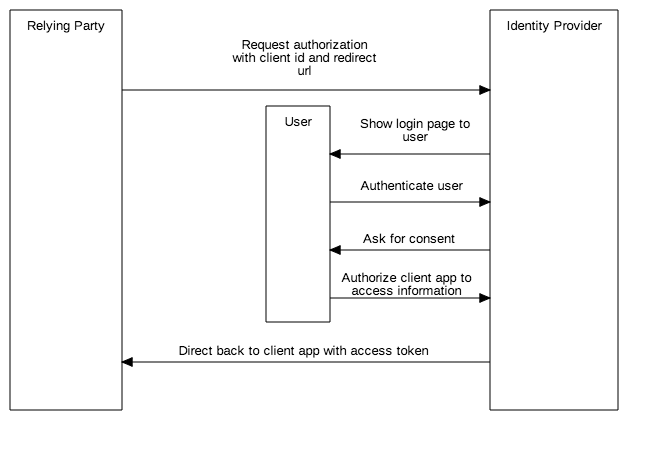
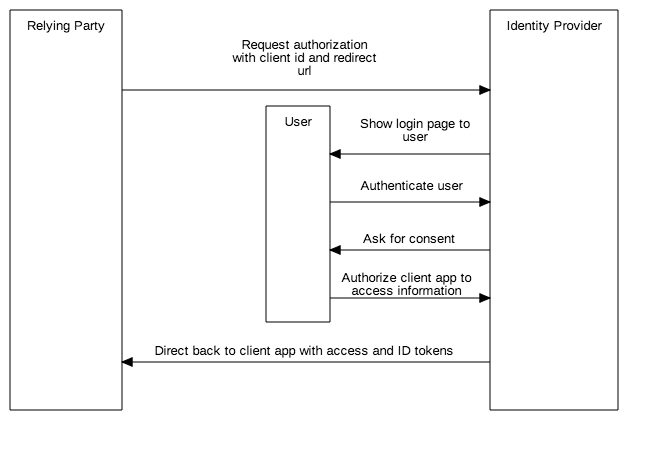
GE-908: More documentation

Changed region(s): [[0.2432, 0.7467, 0.6991, 0.8089]]

diff --git a/docs/oidc/oidc.html b/docs/oidc/oidc.html
@@ -32,6 +32,7 @@
             
   <div class="section" id="openid-connect">
 <h1>1. OpenID Connect<a class="headerlink" href="#openid-connect" title="Permalink to this headline">¶</a></h1>
+<p>A brief look at OpenID Connect. For more information, see the source list.</p>
 <div class="section" id="what-is-openid-connect">
 <h2>1.1. What is OpenID Connect?<a class="headerlink" href="#what-is-openid-connect" title="Permalink to this headline">¶</a></h2>
 <p>OpenID Connect (OIDC) is a simple mechanism based on the OAuth 2.0
@@ -54,32 +55,79 @@ prevents someone from stealing the <em>client_id</em> and using it to have infor
 </ol>
 <div class="figure align-center" id="id1">
 <img alt="../_images/first_time_authentication.png" src="../_images/first_time_authentication.png" />
-<p class="caption"><span class="caption-text">OIDC web-based flow (TODO: FIX DIAGRAM)</span></p>
+<p class="caption"><span class="caption-text">OIDC web-based flow.</span></p>
 </div>
 </div>
 <div class="section" id="access-tokens">
 <h2>1.3. Access Tokens<a class="headerlink" href="#access-tokens" title="Permalink to this headline">¶</a></h2>
-<p>TODO</p>
+<p>Access Tokens are used to communicate to the API that the bearer of the
+token have been authorized to access the API and perform actions that
+are permitted by the custom scope of the API (Auth0, 2018).</p>
 </div>
 <div class="section" id="id-tokens">
 <h2>1.4. ID Tokens<a class="headerlink" href="#id-tokens" title="Permalink to this headline">¶</a></h2>
-<p>TODO</p>
+<p>An ID token contains identity data such as the user’s name and email. The data is consumed
+by the client application and is typically used for UI display. These tokens conform to the RFC 7519
+standard for JSON Web Tokens and must contain 3 parts: a header, a body and a signature (Auth0, 2018).</p>
+</div>
+<div class="section" id="json-web-token-jwt">
+<h2>1.5. JSON Web Token (JWT)<a class="headerlink" href="#json-web-token-jwt" title="Permalink to this headline">¶</a></h2>
+<p>JSON Web Tokens allows for secure transmission of information between parties as a JSON object. The
+information is digitally signed, using either a secret or a public/private key pair. Therefor
+the information can be trusted and verified (Jwt.io, 2018).</p>
+<p><strong>An encoded JWT:</strong> - in the form <em>x.y.z</em></p>
+<div class="highlight-python notranslate"><div class="highlight"><pre><span></span><span class="n">eyJhbGciOiJIUzI1NiIsInR5cCI6IkpXVCJ9</span><span class="o">.</span><span class="n">eyJzdWIiOiIxMjM0NTY3ODkwIiwibm</span>
+<span class="n">FtZSI6IkpvaG4gRG9lIiwiaWF0IjoxNTE2MjM5MDIyfQ</span><span class="o">.</span><span class="n">XbPfbIHMI6arZ3Y922BhjWg</span>
+<span class="n">QzWXcXNrz0ogtVhfEd2o</span>
+</pre></div>
+</div>
+<p>can be decoded into three parts:</p>
+<p><strong>Header (x)</strong> - Algorithm &amp; Token Type</p>
+<div class="highlight-JSON notranslate"><div class="highlight"><pre><span></span><span class="p">{</span>
+    <span class="nt">&quot;alg&quot;</span><span class="p">:</span> <span class="s2">&quot;HS256&quot;</span><span class="p">,</span>
+    <span class="nt">&quot;typ&quot;</span><span class="p">:</span> <span class="s2">&quot;JWT&quot;</span>
+<span class="p">}</span>
+</pre></div>
+</div>
+<p><strong>Body (y)</strong> - Data</p>
+<div class="highlight-JSON notranslate"><div class="highlight"><pre><span></span><span class="p">{</span>
+    <span class="nt">&quot;sub&quot;</span><span class="p">:</span> <span class="s2">&quot;1234567890&quot;</span><span class="p">,</span>
+    <span class="nt">&quot;name&quot;</span><span class="p">:</span> <span class="s2">&quot;John Doe&quot;</span><span class="p">,</span>
+    <span class="nt">&quot;iat&quot;</span><span class="p">:</span> <span class="mi">1516239022</span>
+<span class="p">}</span>
+</pre></div>
+</div>
+<p><strong>Signature (z)</strong> - Gets verified by doing</p>
+<div class="highlight-python notranslate"><div class="highlight"><pre><span></span><span class="n">HMACSHA256</span><span class="p">(</span>
+    <span class="n">base64UrlEncode</span><span class="p">(</span><span class="n">header</span><span class="p">)</span> <span class="o">+</span> <span class="s2">&quot;.&quot;</span> <span class="o">+</span>
+    <span class="n">base64UrlEncode</span><span class="p">(</span><span class="n">payload</span><span class="p">),</span>
+    <span class="n">secret</span>
+<span class="p">)</span>
+</pre></div>
+</div>
 </div>
 <div class="section" id="oidc-in-girl-effect">
-<h2>1.5. OIDC in Girl Effect<a class="headerlink" href="#oidc-in-girl-effect" title="Permalink to this headline">¶</a></h2>
-<p>TODO: Add examples of the following:</p>
-<ul class="simple">
-<li>Django OIDC Provider</li>
-<li>Mozilla OIDC examples</li>
-<li>Wagtail implementation</li>
-</ul>
+<h2>1.6. OIDC in Girl Effect<a class="headerlink" href="#oidc-in-girl-effect" title="Permalink to this headline">¶</a></h2>
+<p><strong>Django OIDC Provider:</strong></p>
+<blockquote>
+<div>The Girl Effect Authentication Service uses the Django OIDC Provider library to perform all OIDC related tasks and makes use
+of the Django OIDC Provider models to create clients, etc. The Django OIDC Provider can be found here: <a class="reference external" href="https://github.com/juanifioren/django-oidc-provider">https://github.com/juanifioren/django-oidc-provider</a></div></blockquote>
+<p><strong>Mozilla Django OIDC:</strong></p>
+<blockquote>
+<div>Mozilla Django OIDC is used by other Django apps to integrate with the OIDC enabled Authentication Service on Girl Effect. Other
+libraries can/should be used for other types of apps. Mozilla Django OIDC can be found here: <a class="reference external" href="https://github.com/mozilla/mozilla-django-oidc">https://github.com/mozilla/mozilla-django-oidc</a></div></blockquote>
+<p><strong>Wagtail implementation:</strong></p>
+<blockquote>
+<div>An example of a wagtail app using OIDC and the Girl Effect Authentication service can be found here:
+<a class="reference external" href="https://github.com/girleffect/core-integration-demo/tree/develop/girleffect_oidc_integration">https://github.com/girleffect/core-integration-demo/tree/develop/girleffect_oidc_integration</a></div></blockquote>
 </div>
 <div class="section" id="sources">
-<h2>1.6. Sources<a class="headerlink" href="#sources" title="Permalink to this headline">¶</a></h2>
+<h2>1.7. Sources<a class="headerlink" href="#sources" title="Permalink to this headline">¶</a></h2>
 <p>Auth0. (2018). OpenID Connect. [online] Available at: <a class="reference external" href="https://auth0.com/docs/protocols/oidc">https://auth0.com/docs/protocols/oidc</a> [Accessed 22 Mar. 2018].</p>
 <p>Offenhartz, J. (2017). OpenID Connect explained in plain English.
 [Blog] Available at: <a class="reference external" href="https://www.onelogin.com/blog/openid-connect-explained-in-plain-english">https://www.onelogin.com/blog/openid-connect-explained-in-plain-english</a> [Accessed 22 Mar. 2018].</p>
 <p>Connect2id.com. (2018). OpenID Connect explained | Connect2id. [online] Available at: <a class="reference external" href="https://connect2id.com/learn/openid-connect">https://connect2id.com/learn/openid-connect</a> [Accessed 23 Mar. 2018].</p>
+<p>Jwt.io. (2018). JWT.IO - JSON Web Tokens Introduction. [online] Available at: <a class="reference external" href="https://jwt.io/introduction/">https://jwt.io/introduction/</a> [Accessed 26 Mar. 2018].</p>
 </div>
 </div>
 

diff --git a/docs/searchindex.js b/docs/searchindex.js
@@ -1,1 +1,1 @@
-Search.setIndex({docnames:["index","oidc/oidc"],envversion:53,filenames:["index.rst","oidc/oidc.rst"],objects:{},objnames:{},objtypes:{},terms:{The:1,access:0,add:1,allow:1,app:1,applic:1,ask:1,auth0:1,authent:1,author:1,avail:1,back:1,base:1,blog:1,can:1,client:1,client_id:1,client_secret:1,com:1,connect2id:1,connect:0,consent:1,contact:1,content:0,correct:1,credenti:1,detail:1,diagram:1,django:1,doc:1,doe:0,end:1,english:1,ensur:1,exampl:1,explain:1,facebook:1,fix:1,flow:1,follow:1,from:1,googl:1,has:1,have:1,how:0,http:1,ident:1,implement:1,index:0,inform:1,invok:1,learn:1,login:1,lot:1,mar:1,mechan:1,modul:0,mozilla:1,oauth:1,obtain:1,offenhartz:1,oidc:0,onc:1,onelogin:1,onlin:1,openid:0,order:1,own:1,page:0,parti:1,plain:1,prevent:1,protocol:1,provid:1,redirect_uri:1,reli:1,request:1,same:1,screen:1,search:0,send:1,sent:1,server:1,servic:1,session:1,simpl:1,someon:1,sourc:0,specif:1,steal:1,store:1,thi:1,through:1,todo:1,token:0,uri:1,use:1,user:1,using:1,verifi:1,wagtail:1,web:1,what:0,work:0,www:1},titles:["Welcome to Girl Effect: Core General\u2019s documentation!","1. OpenID Connect"],titleterms:{access:1,connect:1,core:0,document:0,doe:1,effect:[0,1],gener:0,girl:[0,1],how:1,indic:0,oidc:1,openid:1,sourc:1,tabl:0,token:1,welcom:0,what:1,work:1}})
+Search.setIndex({docnames:["index","oidc/oidc"],envversion:53,filenames:["index.rst","oidc/oidc.rst"],objects:{},objnames:{},objtypes:{},terms:{"public":1,For:1,The:1,These:1,access:0,action:1,alg:1,algorithm:1,all:1,allow:1,api:1,app:1,applic:1,ask:1,auth0:1,authent:1,author:1,avail:1,back:1,base64urlencod:1,base:1,bearer:1,been:1,between:1,blog:1,bodi:1,brief:1,can:1,client:1,client_id:1,client_secret:1,com:1,commun:1,conform:1,connect2id:1,connect:0,consent:1,consum:1,contact:1,contain:1,content:0,core:1,correct:1,creat:1,credenti:1,custom:1,data:1,decod:1,demo:1,detail:1,develop:1,digit:1,displai:1,django:1,doc:1,doe:0,doing:1,either:1,email:1,enabl:1,encod:1,end:1,english:1,ensur:1,etc:1,exampl:1,explain:1,eyjhbgcioijiuzi1niisinr5cci6ikpxvcj9:1,eyjzdwiioiixmjm0nty3odkwiiwibm:1,facebook:1,flow:1,form:1,found:1,from:1,ftzsi6ikpvag4grg9liiwiawf0ijoxnte2mjm5mdiyfq:1,get:1,girleffect:1,girleffect_oidc_integr:1,github:1,googl:1,has:1,have:1,header:1,here:1,hmacsha256:1,how:0,hs256:1,http:1,iat:1,ident:1,implement:1,index:0,inform:1,integr:1,introduct:1,invok:1,john:1,json:0,juanifioren:1,jwt:0,kei:1,learn:1,librari:1,list:1,login:1,look:1,lot:1,make:1,mar:1,mechan:1,model:1,modul:0,more:1,mozilla:1,must:1,name:1,oauth:1,object:1,obtain:1,offenhartz:1,oidc:0,onc:1,onelogin:1,onlin:1,openid:0,order:1,other:1,own:1,page:0,pair:1,part:1,parti:1,payload:1,perform:1,permit:1,plain:1,prevent:1,privat:1,protocol:1,provid:1,qzwxcxnrz0ogtvhfed2o:1,redirect_uri:1,relat:1,reli:1,request:1,rfc:1,same:1,scope:1,screen:1,search:0,secret:1,secur:1,see:1,send:1,sent:1,server:1,servic:1,session:1,should:1,sign:1,signatur:1,simpl:1,someon:1,sourc:0,specif:1,standard:1,steal:1,store:1,sub:1,task:1,therefor:1,thi:1,three:1,through:1,token:0,transmiss:1,tree:1,trust:1,typ:1,type:1,typic:1,uri:1,use:1,used:1,user:1,uses:1,using:1,verifi:1,wagtail:1,web:0,what:0,work:0,www:1,xbpfbihmi6arz3y922bhjwg:1},titles:["Welcome to Girl Effect: Core General\u2019s documentation!","1. OpenID Connect"],titleterms:{access:1,connect:1,core:0,document:0,doe:1,effect:[0,1],gener:0,girl:[0,1],how:1,indic:0,json:1,jwt:1,oidc:1,openid:1,sourc:1,tabl:0,token:1,web:1,welcom:0,what:1,work:1}})

diff --git a/docs/index.html b/docs/index.html
@@ -40,8 +40,9 @@
 <li class="toctree-l2"><a class="reference internal" href="oidc/oidc.html#how-does-oidc-work">1.2. How does OIDC work?</a></li>
 <li class="toctree-l2"><a class="reference internal" href="oidc/oidc.html#access-tokens">1.3. Access Tokens</a></li>
 <li class="toctree-l2"><a class="reference internal" href="oidc/oidc.html#id-tokens">1.4. ID Tokens</a></li>
-<li class="toctree-l2"><a class="reference internal" href="oidc/oidc.html#oidc-in-girl-effect">1.5. OIDC in Girl Effect</a></li>
-<li class="toctree-l2"><a class="reference internal" href="oidc/oidc.html#sources">1.6. Sources</a></li>
+<li class="toctree-l2"><a class="reference internal" href="oidc/oidc.html#json-web-token-jwt">1.5. JSON Web Token (JWT)</a></li>
+<li class="toctree-l2"><a class="reference internal" href="oidc/oidc.html#oidc-in-girl-effect">1.6. OIDC in Girl Effect</a></li>
+<li class="toctree-l2"><a class="reference internal" href="oidc/oidc.html#sources">1.7. Sources</a></li>
 </ul>
 </li>
 </ul>

diff --git a/docs/source/oidc/oidc.rst b/docs/source/oidc/oidc.rst
@@ -1,6 +1,8 @@
 OpenID Connect
 ==============
 
+A brief look at OpenID Connect. For more information, see the source list.
+
 What is OpenID Connect?
 -----------------------
 
@@ -27,7 +29,7 @@ An example of a web-based OIDC flow (Auth0, 2018):
 .. figure:: first_time_authentication.png
     :align: center
 
-    OIDC web-based flow (TODO: FIX DIAGRAM TO INCLUDE ID TOKEN)
+    OIDC web-based flow.
 
 Access Tokens
 -------------
@@ -37,16 +39,72 @@ are permitted by the custom scope of the API (Auth0, 2018).
 
 ID Tokens
 ---------
-TODO
+An ID token contains identity data such as the user's name and email. The data is consumed
+by the client application and is typically used for UI display. These tokens conform to the RFC 7519
+standard for JSON Web Tokens and must contain 3 parts: a header, a body and a signature (Auth0, 2018).
+
+JSON Web Token (JWT)
+--------------------
+JSON Web Tokens allows for secure transmission of information between parties as a JSON object. The
+information is digitally signed, using either a secret or a public/private key pair. Therefor
+the information can be trusted and verified (Jwt.io, 2018).
+
+**An encoded JWT:** - in the form *x.y.z*
+
+.. code-block:: python
+
+    eyJhbGciOiJIUzI1NiIsInR5cCI6IkpXVCJ9.eyJzdWIiOiIxMjM0NTY3ODkwIiwibm
+    FtZSI6IkpvaG4gRG9lIiwiaWF0IjoxNTE2MjM5MDIyfQ.XbPfbIHMI6arZ3Y922BhjWg
+    QzWXcXNrz0ogtVhfEd2o
+
+can be decoded into three parts:
+
+**Header (x)** - Algorithm & Token Type
+
+.. code-block:: JSON
+
+    {
+        "alg": "HS256",
+        "typ": "JWT"
+    }
+
+**Body (y)** - Data
+
+.. code-block:: JSON
+
+    {
+        "sub": "1234567890",
+        "name": "John Doe",
+        "iat": 1516239022
+    }
+
+**Signature (z)** - Gets verified by doing
+
+.. code-block:: python
+
+    HMACSHA256(
+        base64UrlEncode(header) + "." +
+        base64UrlEncode(payload),
+        secret
+    )
 
 OIDC in Girl Effect
 -------------------
 
-TODO: Add examples of the following:
+**Django OIDC Provider:**
 
-- Django OIDC Provider: https://github.com/juanifioren/django-oidc-provider
-- Mozilla Django OIDC: https://github.com/mozilla/mozilla-django-oidc
-- Wagtail implementation: https://github.com/girleffect/core-integration-demo/tree/develop/girleffect_oidc_integration
+    The Girl Effect Authentication Service uses the Django OIDC Provider library to perform all OIDC related tasks and makes use
+    of the Django OIDC Provider models to create clients, etc. The Django OIDC Provider can be found here: https://github.com/juanifioren/django-oidc-provider
+
+**Mozilla Django OIDC:**
+
+    Mozilla Django OIDC is used by other Django apps to integrate with the OIDC enabled Authentication Service on Girl Effect. Other
+    libraries can/should be used for other types of apps. Mozilla Django OIDC can be found here: https://github.com/mozilla/mozilla-django-oidc
+
+**Wagtail implementation:**
+
+    An example of a wagtail app using OIDC and the Girl Effect Authentication service can be found here:
+    https://github.com/girleffect/core-integration-demo/tree/develop/girleffect_oidc_integration
 
 Sources
 -------
@@ -56,3 +114,5 @@ Offenhartz, J. (2017). OpenID Connect explained in plain English.
 [Blog] Available at: https://www.onelogin.com/blog/openid-connect-explained-in-plain-english [Accessed 22 Mar. 2018].
 
 Connect2id.com. (2018). OpenID Connect explained | Connect2id. [online] Available at: https://connect2id.com/learn/openid-connect [Accessed 23 Mar. 2018].
+
+Jwt.io. (2018). JWT.IO - JSON Web Tokens Introduction. [online] Available at: https://jwt.io/introduction/ [Accessed 26 Mar. 2018].
